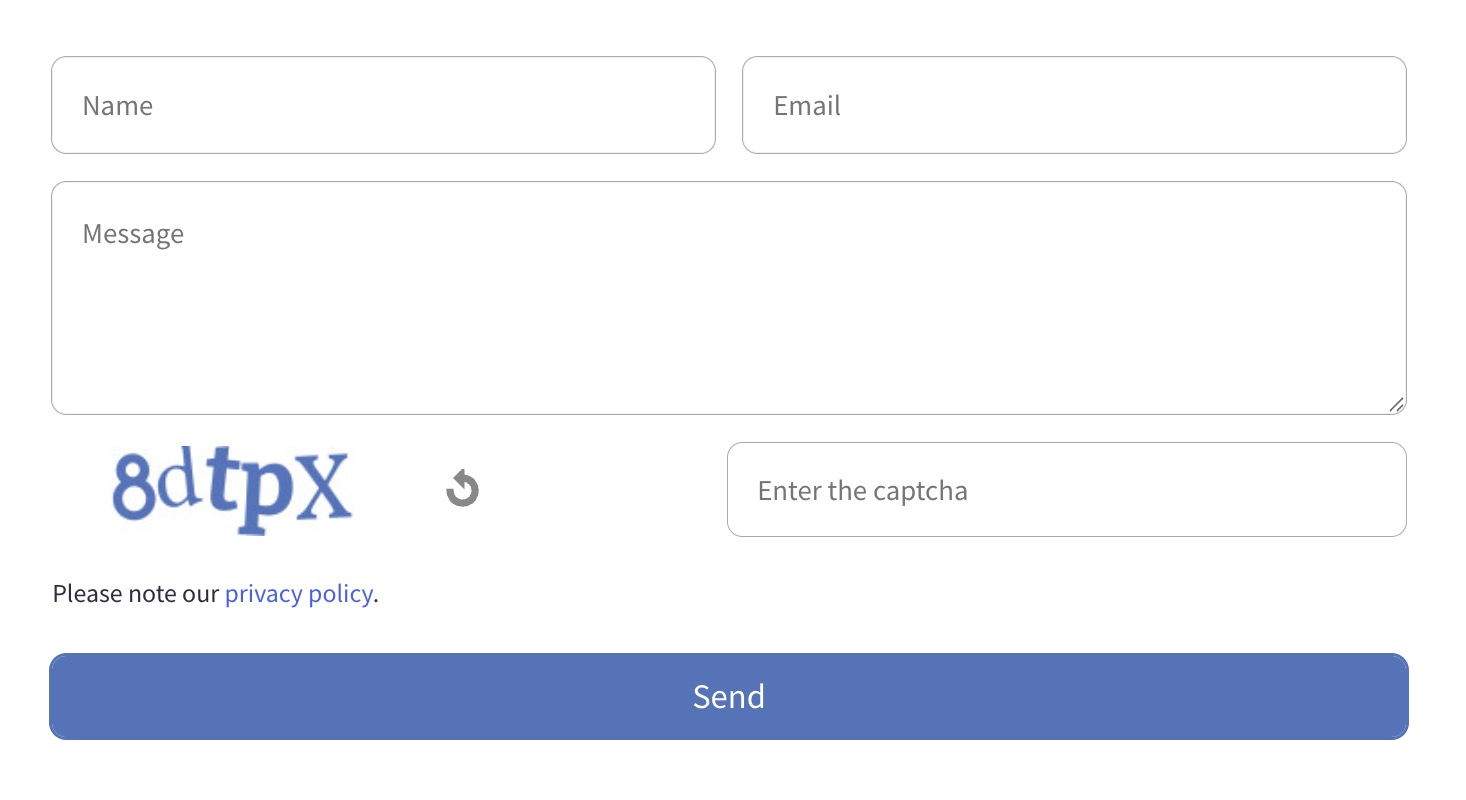
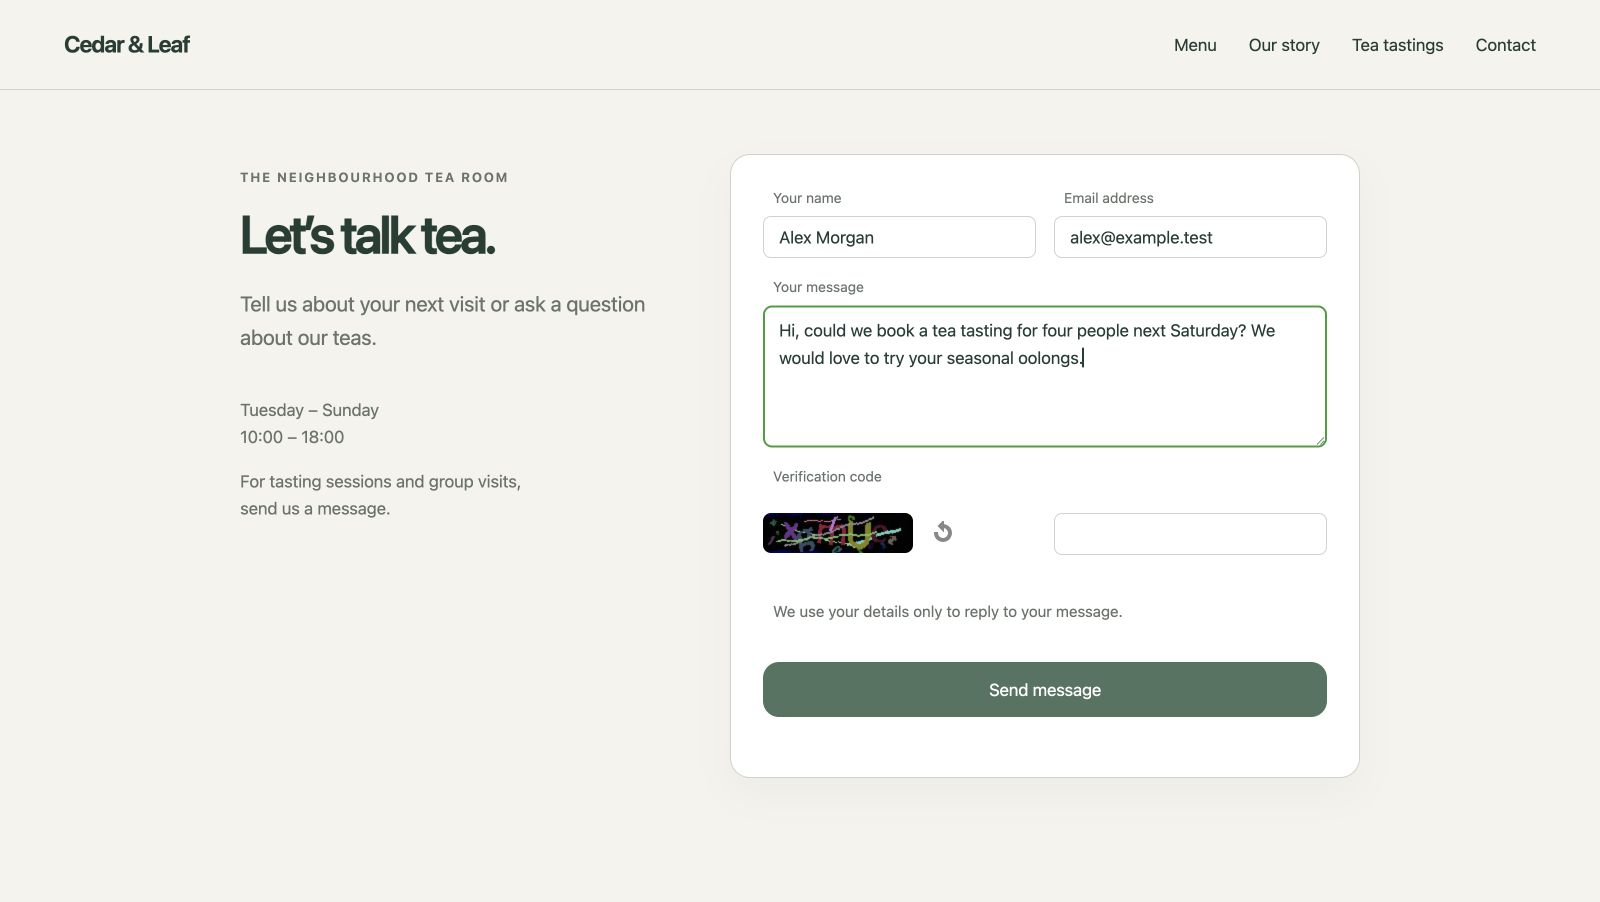
docs: refresh plugin screenshots in light and dark themes

diff --git a/README.md b/README.md
@@ -9,7 +9,7 @@ It also has the uniform honeypot and honeytime guards enabled by default.
 
 The panel block allows adjustments of the labels of the form.
 
-[![Screenshot](screenshot.jpg)](https://github.com/tearoom1/kirby-content-watch)
+[![Screenshot](screenshot.jpg)](https://github.com/tearoom1/uniform-contact-block)
 
 ***
 
@@ -206,3 +206,12 @@ This plugin is licensed under the [MIT License](LICENSE)
 - Developed by Mathis Koblin
 
 [!["Buy Me A Coffee"](https://www.buymeacoffee.com/assets/img/custom_images/orange_img.png)](https://coff.ee/tearoom1)
+
+## Screenshots
+
+Screenshots use fictional Cedar & Leaf sample content at 1600 × 902 pixels. The main image uses the light theme.
+
+| View | Light | Dark |
+| --- | --- | --- |
+| Overview | [Light](screenshot.jpg) | [Dark](screenshot-dark.jpg) |
+| Panel block settings | [Light](docs/screenshots/panel-block.jpg) | [Dark](docs/screenshots/panel-block-dark.jpg) |
